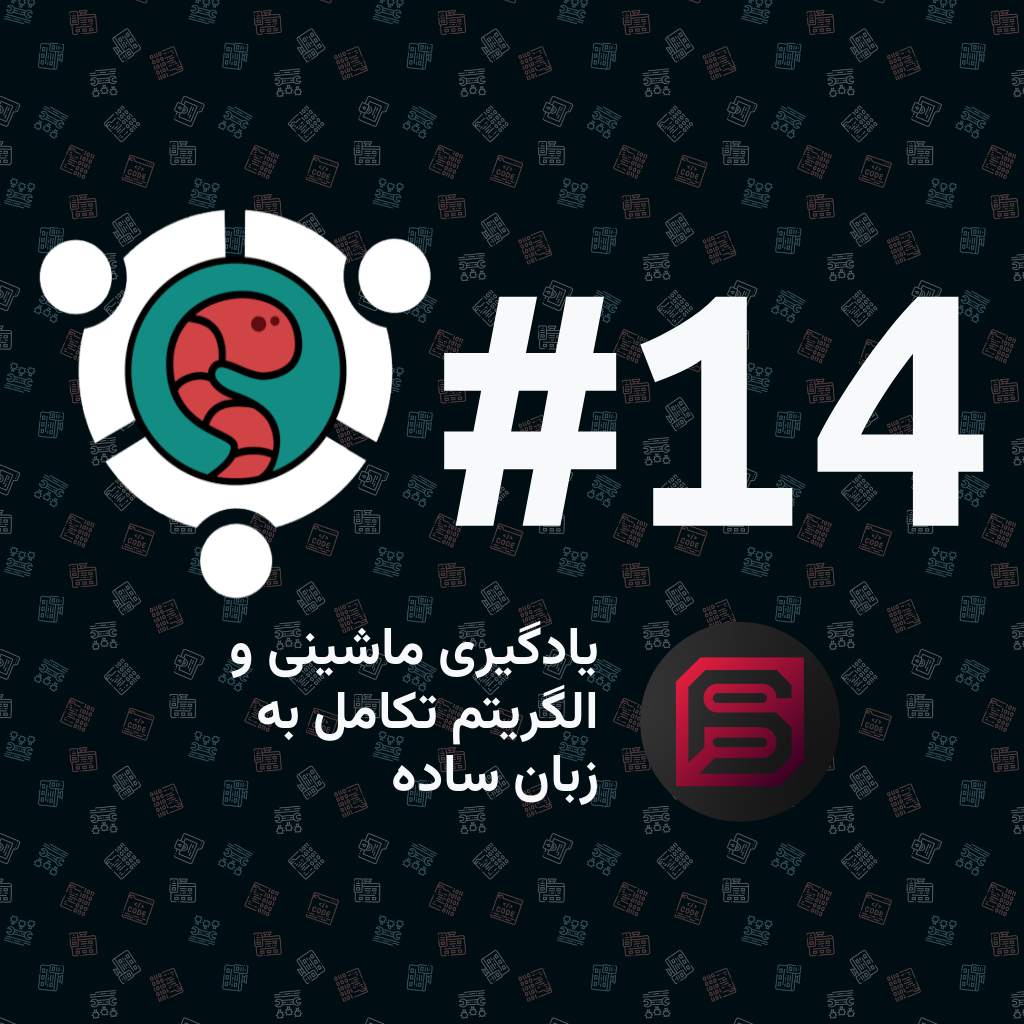
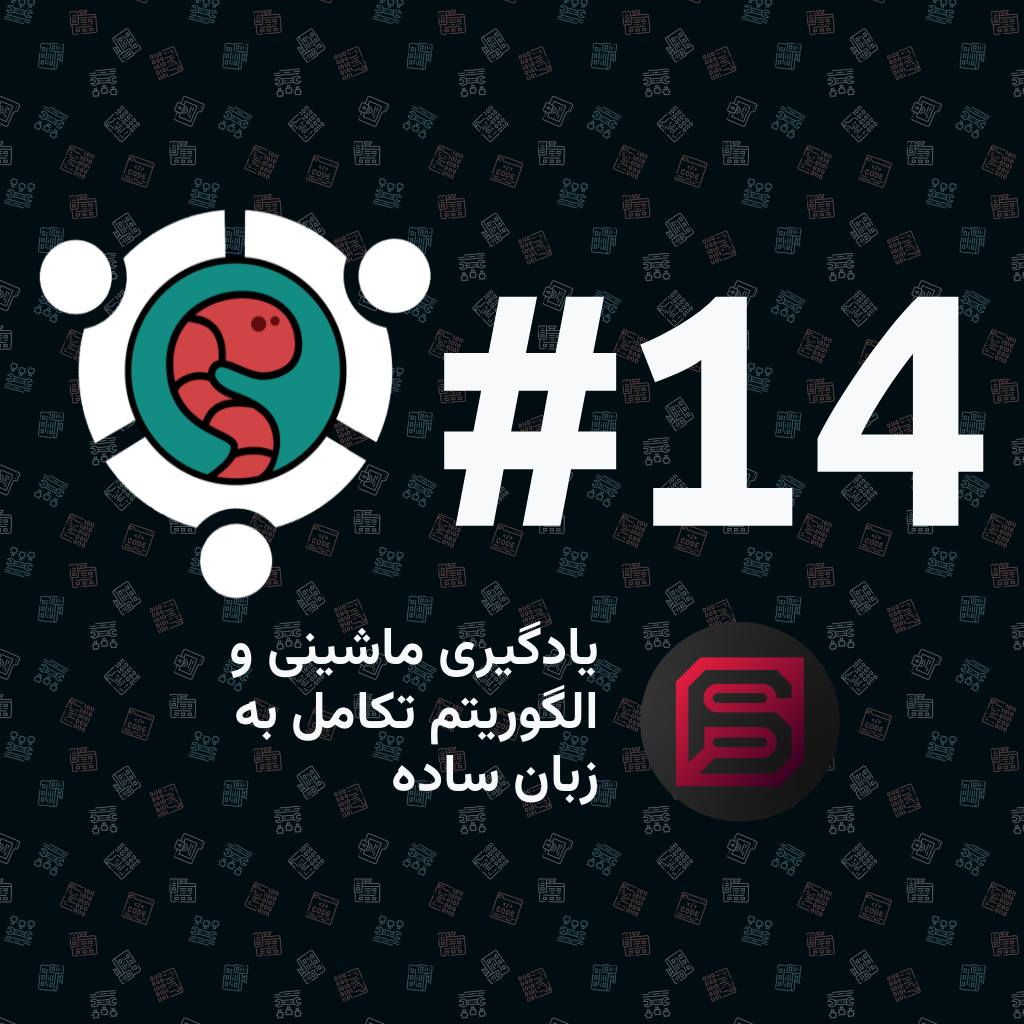
deploy: 973eb2b1ea18a6531119004e7b1a82ad051d2a8d

Changed region(s): [[0.2188, 0.6562, 0.5312, 0.75]]

diff --git a/index.html b/index.html
@@ -6,7 +6,7 @@
     <meta name="viewport" content="width=device-width, initial-scale=1.0">
     <meta property="og:title" content="#14 - دورهمی کرمهای کامپیوتر" />
     <meta name="og:description" content="دورهمی های کرمهای کامپیوتر - جمعه هر هفته ساعت شش
- این هفته با ارائه «بهنام سیمجو» درباره یادگیری ماشینی و الگریتم تکامل به زبان ساده">
+ این هفته با ارائه «بهنام سیمجو» درباره یادگیری ماشینی و الگوریتم تکامل به زبان ساده">
     <meta property="og:url" content="https://meet.pcworms.ir" />
     <meta property="og:image" content="https://meet.pcworms.ir/preview.png" />
     <title>دورهمی های کرم های کامپیوتر</title>
@@ -102,7 +102,7 @@
                         <small class="speaker d-block">
                             این هفته با «بهنام سیمجو» درباره:
                         </small>
-                        <h2 class="subject">یادگیری ماشینی و الگریتم تکامل به زبان ساده</h2>
+                        <h2 class="subject">یادگیری ماشینی و الگوریتم تکامل به زبان ساده</h2>
                         <div class="text-center">
                             <small class="time" id="counter"></small>
                         </div>

diff --git a/post.html b/post.html
@@ -6,7 +6,7 @@
     <meta name="viewport" content="width=device-width, initial-scale=1.0">
     <meta property="og:title" content="#14 - دورهمی کرمهای کامپیوتر" />
     <meta name="og:description" content="دورهمی های کرمهای کامپیوتر - جمعه هر هفته ساعت شش
- این هفته با ارائه «بهنام سیمجو» درباره یادگیری ماشینی و الگریتم تکامل به زبان ساده">
+ این هفته با ارائه «بهنام سیمجو» درباره یادگیری ماشینی و الگوریتم تکامل به زبان ساده">
     <meta property="og:url" content="https://meet.pcworms.ir" />
     <meta property="og:image" content="https://meet.pcworms.ir/preview.png" />
     <title>دورهمی های کرم های کامپیوتر</title>
@@ -95,7 +95,7 @@
                         <small class="speaker d-block">
                             این هفته با «بهنام سیمجو» درباره:
                         </small>
-                        <h2 class="subject">یادگیری ماشینی و الگریتم تکامل به زبان ساده</h2>
+                        <h2 class="subject">یادگیری ماشینی و الگوریتم تکامل به زبان ساده</h2>
                         <div class="text-center">
                             <small class="time" id="counter"></small>
                         </div>

diff --git a/preview.html b/preview.html
@@ -28,7 +28,7 @@
             <div class="col-12 col-sm-10 col-md-8 p-2"">
                 <div class=" row align-items-center">
                 <div class="col">
-                    <h1 class="subject" dir="rtl">یادگیری ماشینی و الگریتم تکامل به زبان ساده</h1>
+                    <h1 class="subject" dir="rtl">یادگیری ماشینی و الگوریتم تکامل به زبان ساده</h1>
                 </div>
                 <div class="col-auto float-start text-center"><img src="assets&#x2F;avatars&#x2F;bsimjoo.png" class="profile"></div>
             </div>
